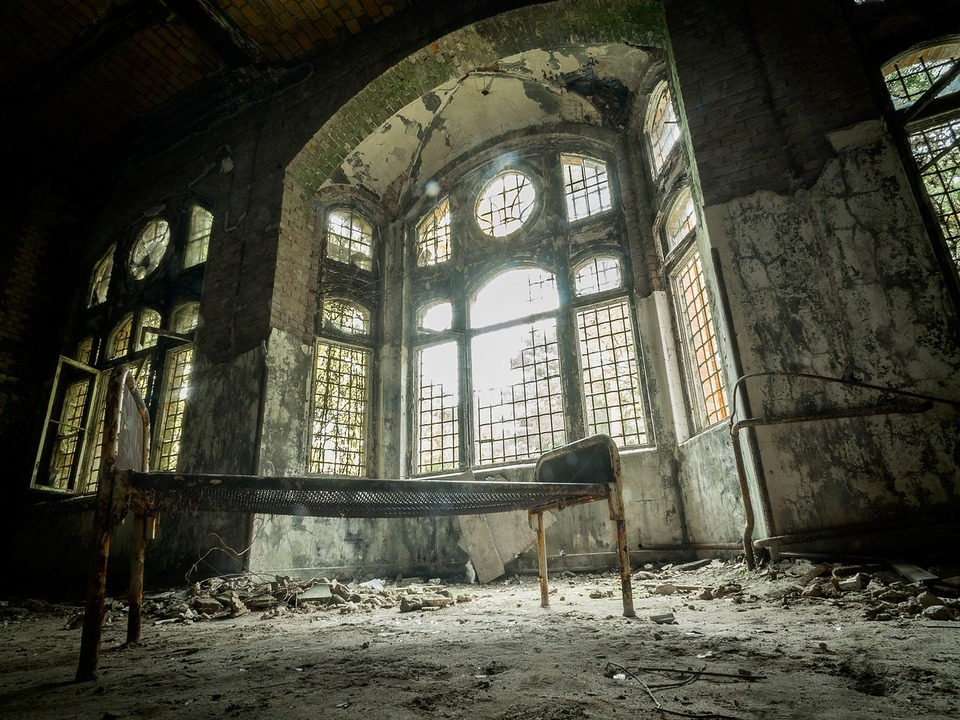
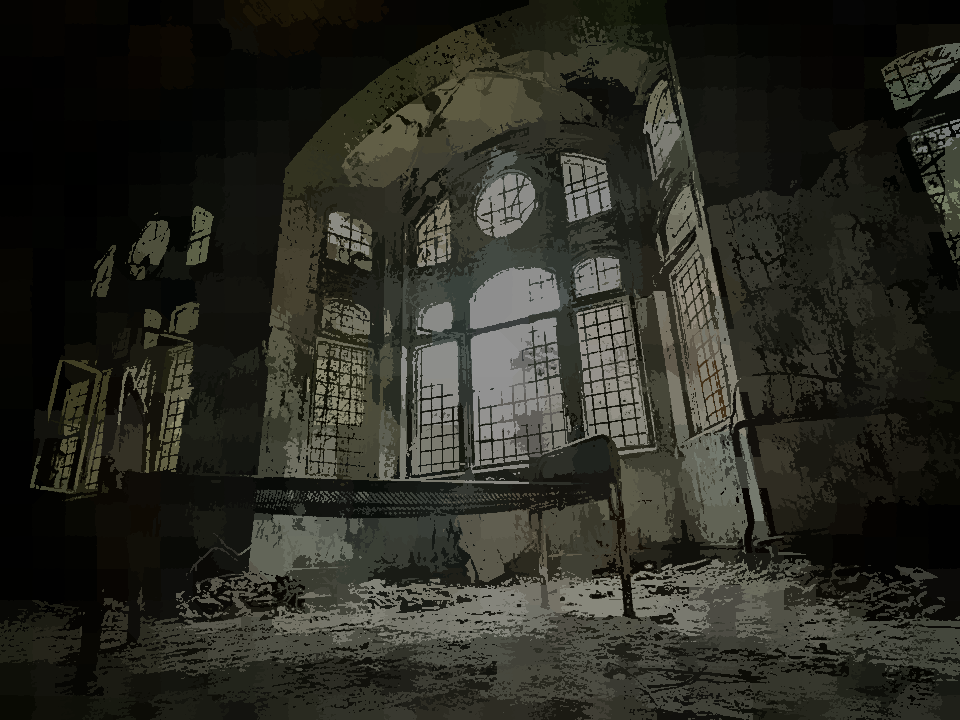
feat: 背景画像をコマンドで切り替えられるようにする

diff --git a/lib/states/intro.go b/lib/states/intro.go
@@ -16,15 +16,19 @@ import (
 type IntroState struct {
 	queue msg.Queue
 	cycle int
+	bg    *ebiten.Image
 }
 
+// TODO: 背景切り替え時にsleepを入れれたらよさそう
 var introText = `
+[image source="bg_urban1"]
 <導入>[p]
 大陸に散らばる遺跡...[p]
 それは古代の失われた文明が眠る場所。[l]
 その中では古代文明の財宝と多くの怪物たちが待ち構えている。[p]
 <昔>[p]
 かつて、勇者たちは剣や槍という粗末な武器を持って遺跡に挑み...[p]
+[image source="bg_crystal1"]
 文字通り命がけの冒険の代償にわずかばかりの貴金属を持ち帰った。[p]
 <変遷>[p]
 やがて時代が進むと、剣は銃に変わり大砲を乗せた乗り物が現れた。[p]
@@ -59,7 +63,15 @@ func (st *IntroState) Update(world w.World) states.Transition {
 	// アニメーションに便利なので、グローバルにあっていいかもしれない
 	var queueResult msg.QueueState
 
+	// FIXME: 最後までいくとバグる
 	if st.cycle%2 == 0 {
+		if v, ok := st.queue.Head().(*msg.ChangeBg); ok {
+			world.Manager.Join(world.Components.Engine.SpriteRender, world.Components.Engine.Transform).Visit(ecs.Visit(func(entity ecs.Entity) {
+				sprite := world.Components.Engine.SpriteRender.Get(entity).(*ec.SpriteRender)
+				new := (*world.Resources.SpriteSheets)[v.Source]
+				sprite.SpriteSheet = &new
+			}))
+		}
 		queueResult = st.queue.RunHead()
 		st.cycle = 0
 	}
@@ -85,4 +97,9 @@ func (st *IntroState) Update(world w.World) states.Transition {
 	return states.Transition{}
 }
 
-func (st *IntroState) Draw(world w.World, screen *ebiten.Image) {}
+func (st *IntroState) Draw(world w.World, screen *ebiten.Image) {
+	opts := &ebiten.DrawImageOptions{}
+	if st.bg != nil {
+		screen.DrawImage(st.bg, opts)
+	}
+}

diff --git a/lib/utils/msg/ast.go b/lib/utils/msg/ast.go
@@ -63,7 +63,7 @@ func (es *ExpressionStatement) String() string {
 type CmdExpression struct {
 	Token      Token // '['トークン
 	Expression Expression
-	Cmd        event
+	Cmd        Event
 }
 
 func (ie *CmdExpression) expressionNode()      {}
@@ -90,7 +90,7 @@ func (sl *TextLiteral) String() string       { return sl.Token.Literal }
 type FunctionLiteral struct {
 	Token      Token
 	FuncName   Identifier
-	Parameters []*NamedParam
+	Parameters NamedParams
 }
 
 func (fl *FunctionLiteral) expressionNode()      {} // fnの結果をほかの変数に代入できたりするため。代入式の一部として扱うためには、式でないといけない
@@ -99,8 +99,8 @@ func (fl *FunctionLiteral) String() string {
 	var out bytes.Buffer
 
 	params := []string{}
-	for _, p := range fl.Parameters {
-		params = append(params, p.String())
+	for k, v := range fl.Parameters.Map {
+		params = append(params, k+"="+v)
 	}
 
 	out.WriteString("[")
@@ -120,18 +120,18 @@ func (i *Identifier) expressionNode()      {}
 func (i *Identifier) TokenLiteral() string { return i.Token.Literal }
 func (i *Identifier) String() string       { return i.Value }
 
-type NamedParam struct {
-	Name  Identifier
-	Value string
+type NamedParams struct {
+	Map map[string]string
 }
 
-func (n *NamedParam) expressionNode() {}
-func (n *NamedParam) String() string {
+func (n *NamedParams) expressionNode() {}
+func (n *NamedParams) String() string {
 	var out bytes.Buffer
 
-	out.WriteString(n.Name.String())
-	out.WriteString(" = ")
-	out.WriteString(n.Value)
-
+	for k, v := range n.Map {
+		out.WriteString(k)
+		out.WriteString(" = ")
+		out.WriteString(v)
+	}
 	return out.String()
 }

diff --git a/lib/utils/msg/msg.go b/lib/utils/msg/msg.go
@@ -8,14 +8,14 @@ const (
 )
 
 type Queue struct {
-	events []event
+	events []Event
 	// 現在の表示文字列
 	buf string
 	// trueの場合キューを処理する
 	active bool
 }
 
-func NewQueue(events []event) Queue {
+func NewQueue(events []Event) Queue {
 	q := Queue{
 		active: true,
 		events: events,
@@ -37,6 +37,10 @@ func (q *Queue) RunHead() QueueState {
 	return QueueStateNone
 }
 
+func (q *Queue) Head() Event {
+	return q.events[0]
+}
+
 // キューの先端を消して先に進める
 func (q *Queue) Pop() QueueState {
 	if len(q.events) == 0 {
@@ -51,7 +55,7 @@ func (q *Queue) Display() string {
 	return q.buf
 }
 
-func (q *Queue) SetEvents(es []event) {
+func (q *Queue) SetEvents(es []Event) {
 	q.events = es
 }
 
@@ -63,7 +67,7 @@ func (q *Queue) deactivate() {
 	q.active = false
 }
 
-type event interface {
+type Event interface {
 	PreHook()
 	Run(*Queue)
 }
@@ -116,6 +120,21 @@ func (e *flush) PreHook() {
 func (e *flush) Run(q *Queue) {
 	q.buf = ""
 	q.deactivate()
+	q.Pop()
+	return
+}
+
+// ================
+
+type ChangeBg struct {
+	Source string
+}
+
+func (c *ChangeBg) PreHook() {
+	return
+}
+
+func (c *ChangeBg) Run(q *Queue) {
 	q.Pop()
 	return
 }

diff --git a/lib/utils/msg/evaluator.go b/lib/utils/msg/evaluator.go
@@ -1,24 +1,24 @@
 package msg
 
 type Evaluator struct {
-	Events []event
+	Events []Event
 }
 
-func (e *Evaluator) Eval(node Node) event {
+func (e *Evaluator) Eval(node Node) Event {
 	switch node := node.(type) {
 	case *Program:
 		return e.evalProgram(node)
 	case *ExpressionStatement:
 		return e.Eval(node.Expression)
 	case *FunctionLiteral:
-		var eve event
+		var eve Event
 		switch node.FuncName.Value {
 		case CMD_FLUSH:
 			eve = &flush{}
 		case CMD_LINE_END_WAIT:
 			eve = &lineEndWait{}
 		case CMD_IMAGE:
-			eve = &notImplement{}
+			eve = &ChangeBg{Source: node.Parameters.Map["source"]}
 		}
 		e.Events = append(e.Events, eve)
 		return eve
@@ -31,8 +31,8 @@ func (e *Evaluator) Eval(node Node) event {
 	return nil
 }
 
-func (e *Evaluator) evalProgram(program *Program) event {
-	var result event
+func (e *Evaluator) evalProgram(program *Program) Event {
+	var result Event
 
 	for _, statement := range program.Statements {
 		result = e.Eval(statement)

diff --git a/lib/utils/msg/evaluator_test.go b/lib/utils/msg/evaluator_test.go
@@ -1,6 +1,7 @@
 package msg
 
 import (
+	"fmt"
 	"testing"
 
 	"github.com/stretchr/testify/assert"
@@ -9,7 +10,8 @@ import (
 func TestEval(t *testing.T) {
 	input := `こんにちは[l]世界[p]
 ←無視される改行たたたたた。
-←有効な改行`
+←有効な改行
+[image source="test.png"]`
 
 	l := NewLexer(input)
 	p := NewParser(l)
@@ -26,6 +28,8 @@ func TestEval(t *testing.T) {
 			results = append(results, "flush")
 		case *lineEndWait:
 			results = append(results, "lineEndWait")
+		case *ChangeBg:
+			results = append(results, fmt.Sprintf("%s source=%s", "changeBg", event.Source))
 		}
 	}
 	expect := []string{
@@ -33,7 +37,8 @@ func TestEval(t *testing.T) {
 		"lineEndWait",
 		"世界",
 		"flush",
-		"←無視される改行たたたたた。\n←有効な改行",
+		"←無視される改行たたたたた。\n←有効な改行\n",
+		"changeBg source=test.png",
 	}
 	assert.Equal(t, expect, results)
 }

diff --git a/lib/utils/msg/parser.go b/lib/utils/msg/parser.go
@@ -214,8 +214,9 @@ func (p *Parser) parseFunctionLiteral() Expression {
 }
 
 // 引数をパース
-func (p *Parser) parseFunctionParameters() []*NamedParam {
-	namedParams := []*NamedParam{}
+func (p *Parser) parseFunctionParameters() NamedParams {
+	namedParams := NamedParams{}
+	namedParams.Map = map[string]string{}
 
 	for !p.peekTokenIs(RBRACKET) {
 		name := Identifier{Token: p.curToken, Value: p.curToken.Literal}
@@ -227,11 +228,7 @@ func (p *Parser) parseFunctionParameters() []*NamedParam {
 			log.Fatal("シンタックスエラー: STRINGがない: ", p.curToken.Literal)
 		}
 		p.nextToken()
-		param := &NamedParam{
-			Name:  name,
-			Value: p.curToken.Literal,
-		}
-		namedParams = append(namedParams, param)
+		namedParams.Map[name.Value] = p.curToken.Literal
 
 		if p.peekTokenIs(RBRACKET) {
 			break

diff --git a/lib/utils/msg/parser_test.go b/lib/utils/msg/parser_test.go
@@ -66,7 +66,7 @@ func TestParsingCmdExpressionImage(t *testing.T) {
 	f, ok := stmt.Expression.(*FunctionLiteral)
 	assert.True(t, ok)
 	assert.Equal(t, "image", f.FuncName.Value)
-	assert.Equal(t, "value1", f.Parameters[0].Value)
-	assert.Equal(t, "value2", f.Parameters[1].Value)
-	assert.Equal(t, "test.png", f.Parameters[2].Value)
+	assert.Equal(t, "value1", f.Parameters.Map["a"])
+	assert.Equal(t, "value2", f.Parameters.Map["b"])
+	assert.Equal(t, "test.png", f.Parameters.Map["c"])
 }
